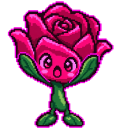
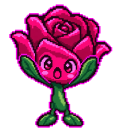
feat: add Gentle Shell sprites for the explore, think, check and close phases
Add the four generator prompts and variants, plus the generated sprites.
The shared crop box re-cropped the existing gentle sprites slightly.

Changed region(s): [[0.0625, 0.0, 0.9062, 1.0], [0.6875, 0.5312, 0.7188, 0.5625]]

diff --git a/scripts/process-mascots.py b/scripts/process-mascots.py
@@ -13,7 +13,8 @@ from PIL import Image
 ROOT = Path(__file__).resolve().parent.parent / "Sources/AgentNotch/Resources"
 RAW, OUT = ROOT / "mascots-raw", ROOT / "Mascots"
 AGENTS = ["claude", "codex", "gentle"]
-VARIANTS = ["sleep", "work", "alert", "done", "blink", "drowsy", "error"]
+VARIANTS = ["sleep", "work", "alert", "done", "blink", "drowsy", "error",
+            "work-explore", "work-think", "work-check", "work-close"]
 SIZE = 128
 
 
